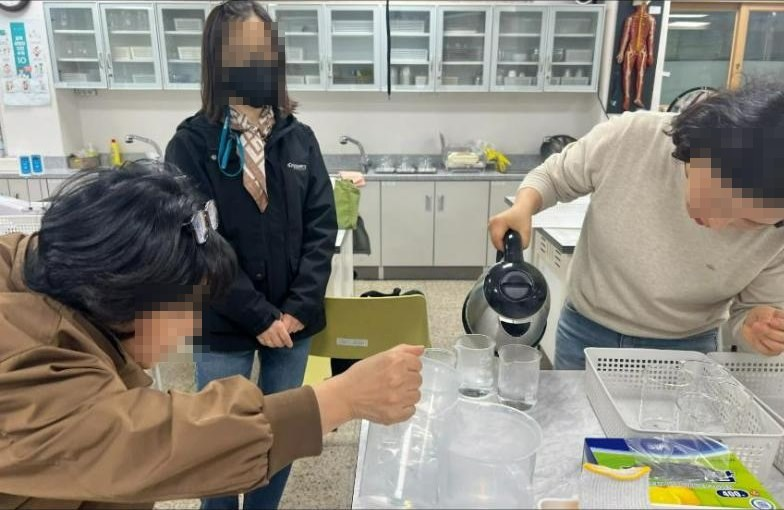
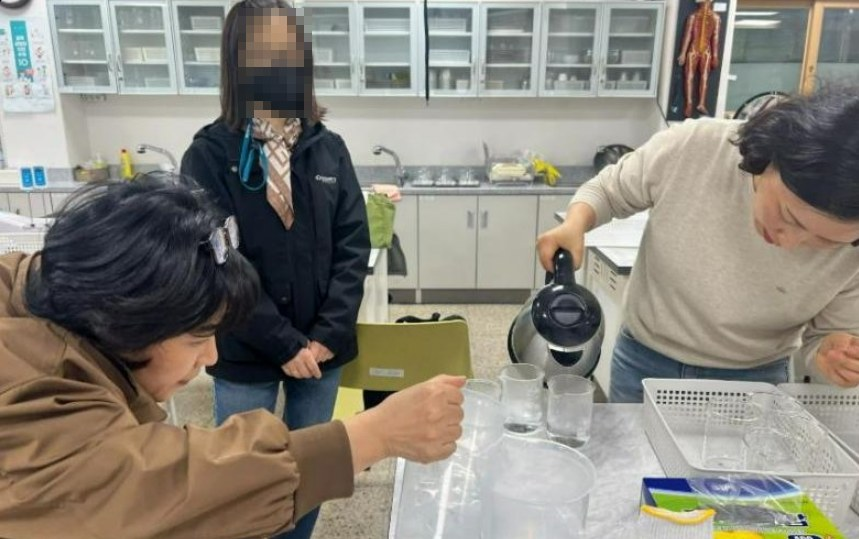
물 붓는 사진: 검정 옷 회원만 모자이크 / 비누막 영상 30초부터 재생
Claude-Session: https://claude.ai/code/session_01BQkJDWoUiQZynfFDk6pUWj

diff --git a/index.html b/index.html
@@ -356,7 +356,7 @@ const WORKSHOPS = [
       {art:"thermal", ph:"thermal", t:"열화상카메라 활용 과학탐구", d:"열화상 카메라로 눈에 보이지 않는 열의 이동을 촬영하고, 전도·대류·복사로 분류해 설명"},
       {art:"temp", ph:"temp", t:"무선온도센서 활용 과학탐구", d:"태블릿에 실시간으로 그려지는 온도 그래프로 가열·냉각 과정을 기록"},
       {art:"snorkl", ph:"snorkl", t:"과정중심평가와 스노클AI", d:"학생이 말과 그림으로 설명한 풀이에 AI가 바로 피드백을 주는 도구"},
-      {art:"soap", ph:"soap", yt:"W9qlQbdu06E", t:"비누막으로 보는 상태변화", d:"드라이아이스가 승화하며 생긴 기체로 비누막이 둥글게 부풀어 오르는 모습을 관찰. 학생 수업에도 적용"}
+      {art:"soap", ph:"soap", yt:"W9qlQbdu06E", ys:30, t:"비누막으로 보는 상태변화", d:"드라이아이스가 승화하며 생긴 기체로 비누막이 둥글게 부풀어 오르는 모습을 관찰. 학생 수업에도 적용"}
     ]},
   { n:2, date:"2026-05-26", day:"화", time:"17:00~19:00", place:"고천중학교 3층 과학실",
     title:"교과서 실험을 데이터로 다시 하다",
@@ -605,7 +605,7 @@ function card(it,w){
   const meta=`${w.n}차 워크숍 · ${md(w.date).m}월 ${md(w.date).d}일`;
   let top=ART[it.art](), g=null;
   if(pics.length||it.yt){
-    g=gal({items:pics,title:it.t,desc:it.d,meta,yt:it.yt,c:accentFor(w.n)});
+    g=gal({items:pics,title:it.t,desc:it.d,meta,yt:it.yt,ys:it.ys||0,c:accentFor(w.n)});
   }
   if(pics.length){
     top=`<button class="shot" type="button" data-g="${g}" data-i="0" aria-label="${esc(it.t)} 사진 크게 보기">${top.replace('class="art"','class="art" style="position:absolute;inset:0;width:100%;height:100%"')}<img src="${IMG(pics[0].id)}" alt="${esc(pics[0].cap)}" loading="lazy" style="position:absolute;inset:0" onerror="this.remove()">${pics.length>1?`<span class="cnt">사진 ${pics.length}</span>`:''}${it.yt?'<span class="vid">▶ 영상</span>':''}</button>`;
@@ -717,7 +717,7 @@ function lbRender(){
   $('#lbP').hidden=$('#lbN').hidden=!multi;
   if(LB.v||!G.items.length){
     img.hidden=true; img.removeAttribute('src');
-    if(G.yt){const f=document.createElement('iframe');f.src=`https://www.youtube-nocookie.com/embed/${G.yt}?autoplay=1&rel=0`;f.allow='autoplay; encrypted-media; picture-in-picture; fullscreen';f.allowFullscreen=true;f.title=G.title+' 영상';st.prepend(f);}
+    if(G.yt){const f=document.createElement('iframe');f.src=`https://www.youtube-nocookie.com/embed/${G.yt}?autoplay=1&rel=0&start=${G.ys||0}`;f.allow='autoplay; encrypted-media; picture-in-picture; fullscreen';f.allowFullscreen=true;f.title=G.title+' 영상';st.prepend(f);}
     $('#lbCap').textContent='실험 영상';
   } else {
     const it=G.items[LB.i]; img.hidden=false; img.src=IMG(it.id); img.alt=it.cap;
